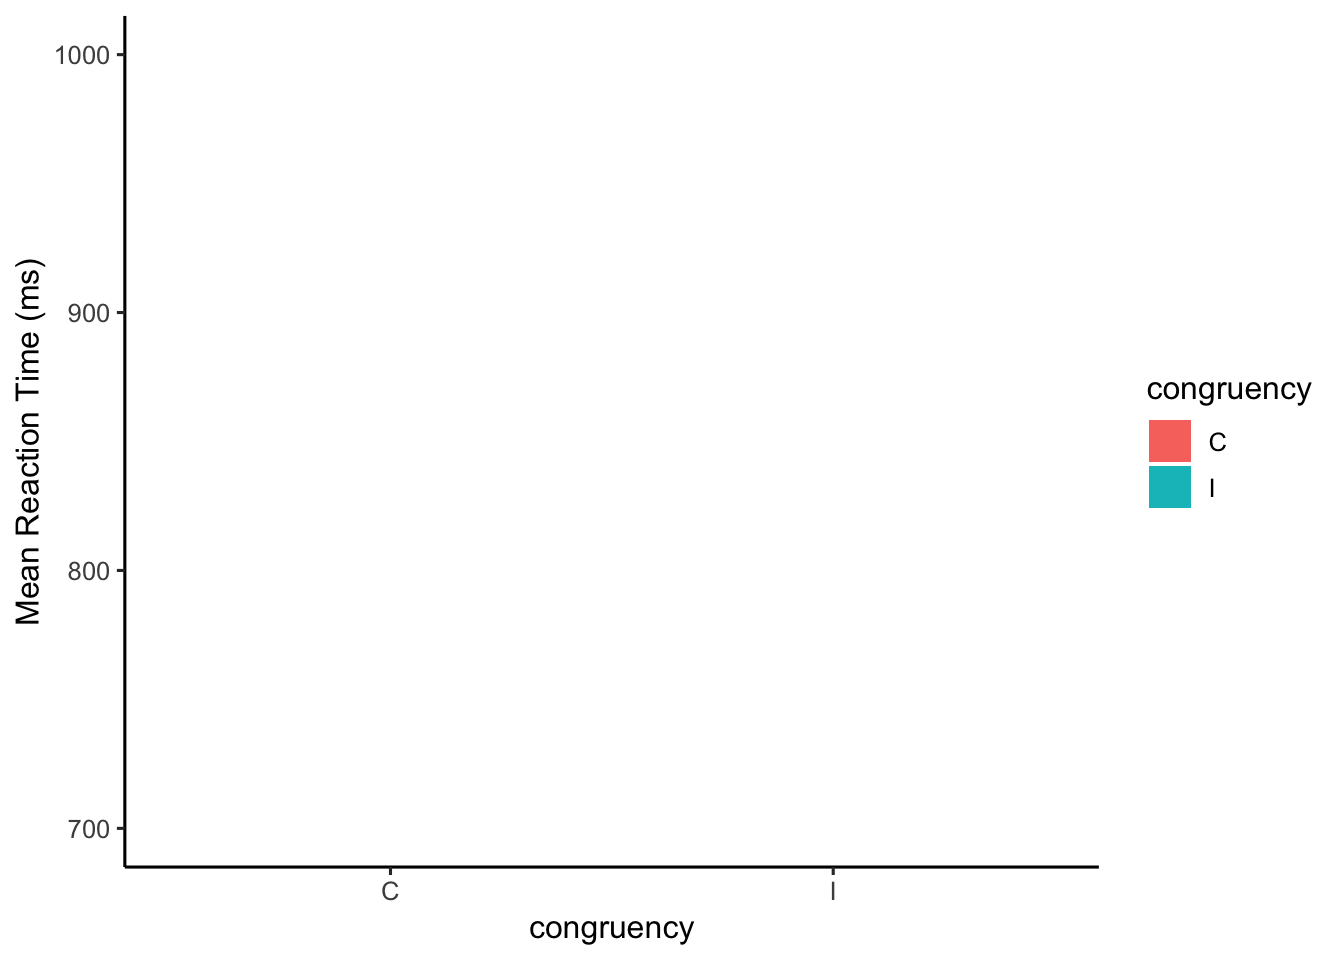
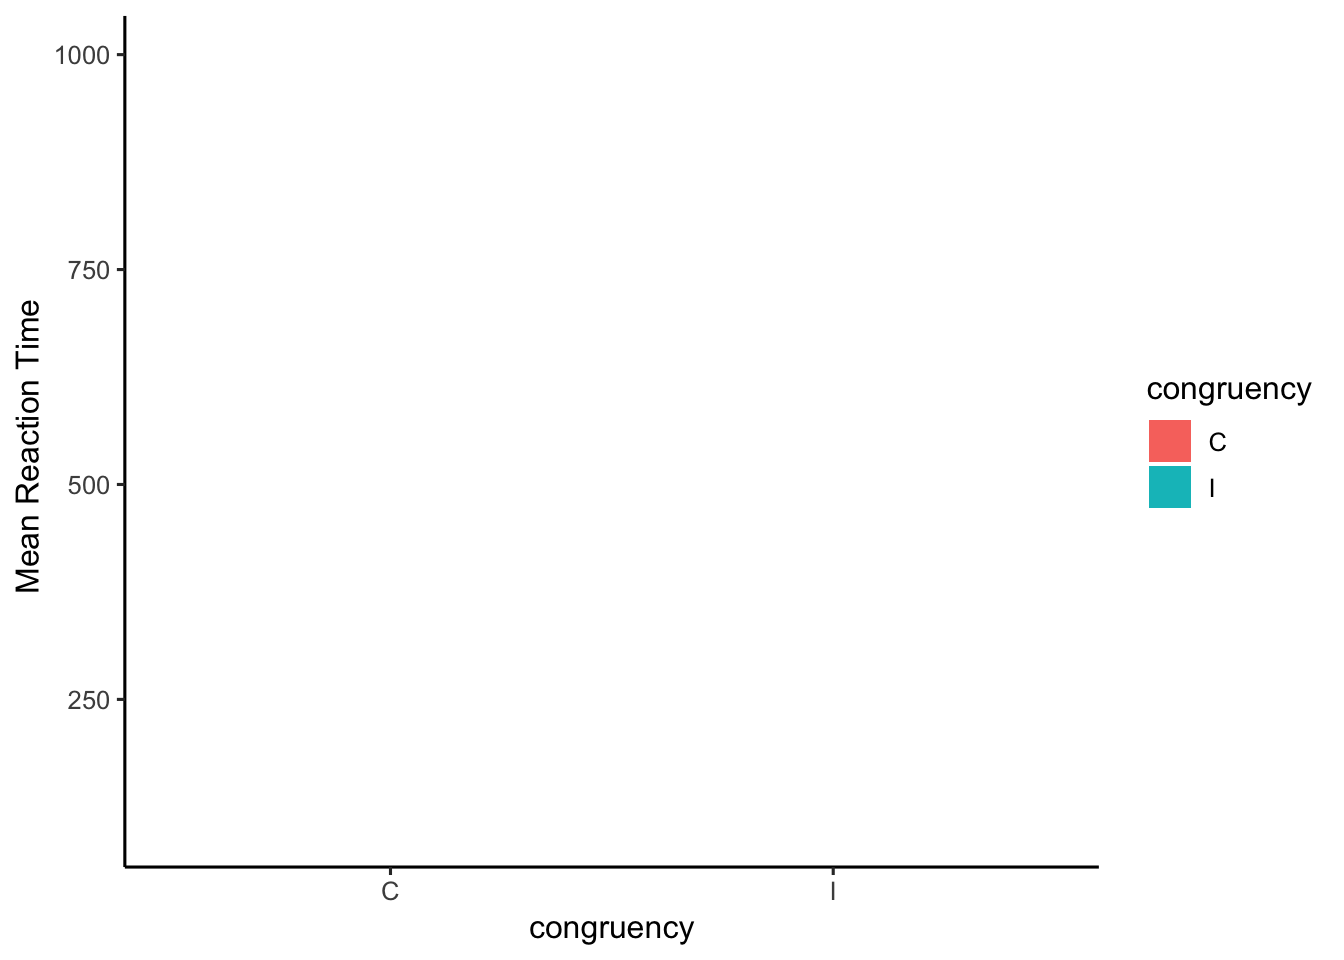
try non integer

diff --git a/docs/DataWrangleFlankerAV.html b/docs/DataWrangleFlankerAV.html
@@ -362,8 +362,10 @@ all_data&lt;-all_data %&gt;%
 <div id="get-reaction-time-on-each-trial" class="section level3">
 <h3>Get Reaction time on each trial</h3>
 <p>Add a column that calculates the reaction time on each trial.</p>
-<pre class="r"><code>all_data &lt;- all_data %&gt;%
-              mutate(RT = as.integer(response_time - stimulus_onset))</code></pre>
+<pre class="r"><code># Somehow the stimulus and the response time are the same number?
+
+all_data &lt;- all_data %&gt;%
+              mutate(RT =response_time - stimulus_onset)</code></pre>
 </div>
 </div>
 <div id="checks" class="section level2">
@@ -701,7 +703,8 @@ knitr::kable(Sub_Trials)</code></pre>
 <div id="exclusion" class="section level3">
 <h3>Exclusion</h3>
 <p>Exclude all RTs that are longer than 2000 ms</p>
-<pre class="r"><code>Slow_RT &lt;- all_data %&gt;%
+<pre class="r"><code># Reaction Time =0 somehow the stimulus and response are the same number
+Slow_RT &lt;- all_data %&gt;%
               filter(RT &lt; 2000)</code></pre>
 </div>
 </div>
@@ -712,14 +715,14 @@ knitr::kable(Sub_Trials)</code></pre>
 <ol style="list-style-type: decimal">
 <li>Get the individual subject mean reaction times for <strong>correct</strong> congruent and incongruent trials.</li>
 </ol>
-<pre class="r"><code>subject_meanRTs &lt;- Slow_RT %&gt;%
+<pre class="r"><code>Subject_Trials_meanRTs &lt;- Slow_RT %&gt;%
                     filter(accuracy == TRUE) %&gt;%
                     group_by(subject,congruency) %&gt;%
                     summarise(mean_RT = mean(RT))</code></pre>
 <ol start="2" style="list-style-type: decimal">
 <li>Get the overall mean RTs and SEMs (standard errors of the mean) for the congruent and incongruent condition. Make a table and graph.</li>
 </ol>
-<pre class="r"><code> congruency_means &lt;- subject_meanRTs %&gt;%
+<pre class="r"><code> congruency_means &lt;- Subject_Trials_meanRTs %&gt;%
                       group_by(congruency) %&gt;%
                       summarise(meanRT = mean(mean_RT),
                                 SEM = sd(mean_RT)/sqrt(length(mean_RT)))
@@ -749,13 +752,13 @@ knitr::kable(congruency_means)</code></pre>
                              fill=congruency))+
   geom_bar(stat=&quot;identity&quot;)+
   theme_classic(base_size=12)+
-  ylab(&quot;Mean Reaction Time (ms)&quot;)+
+  ylab(&quot;Mean Reaction Time &quot;)+
   geom_errorbar(aes(ymin=meanRT-SEM,
                     ymax=meanRT+SEM),
                 position=position_dodge(width=0.9),
                 width=.2,
                 color=&quot;black&quot;)+
-  coord_cartesian(ylim=c(700,1000))</code></pre>
+  coord_cartesian(ylim=c(100,1000))</code></pre>
 <p><img src="DataWrangleFlankerAV_files/figure-html/unnamed-chunk-7-1.png" width="672" /></p>
 <ol start="3" style="list-style-type: decimal">
 <li>Compute the flanker effect for each subject, taking the difference between their mean incongruent and congruent RT. Then plot the mean flanker effect, along with the SEM of the mean flanker effect</li>
